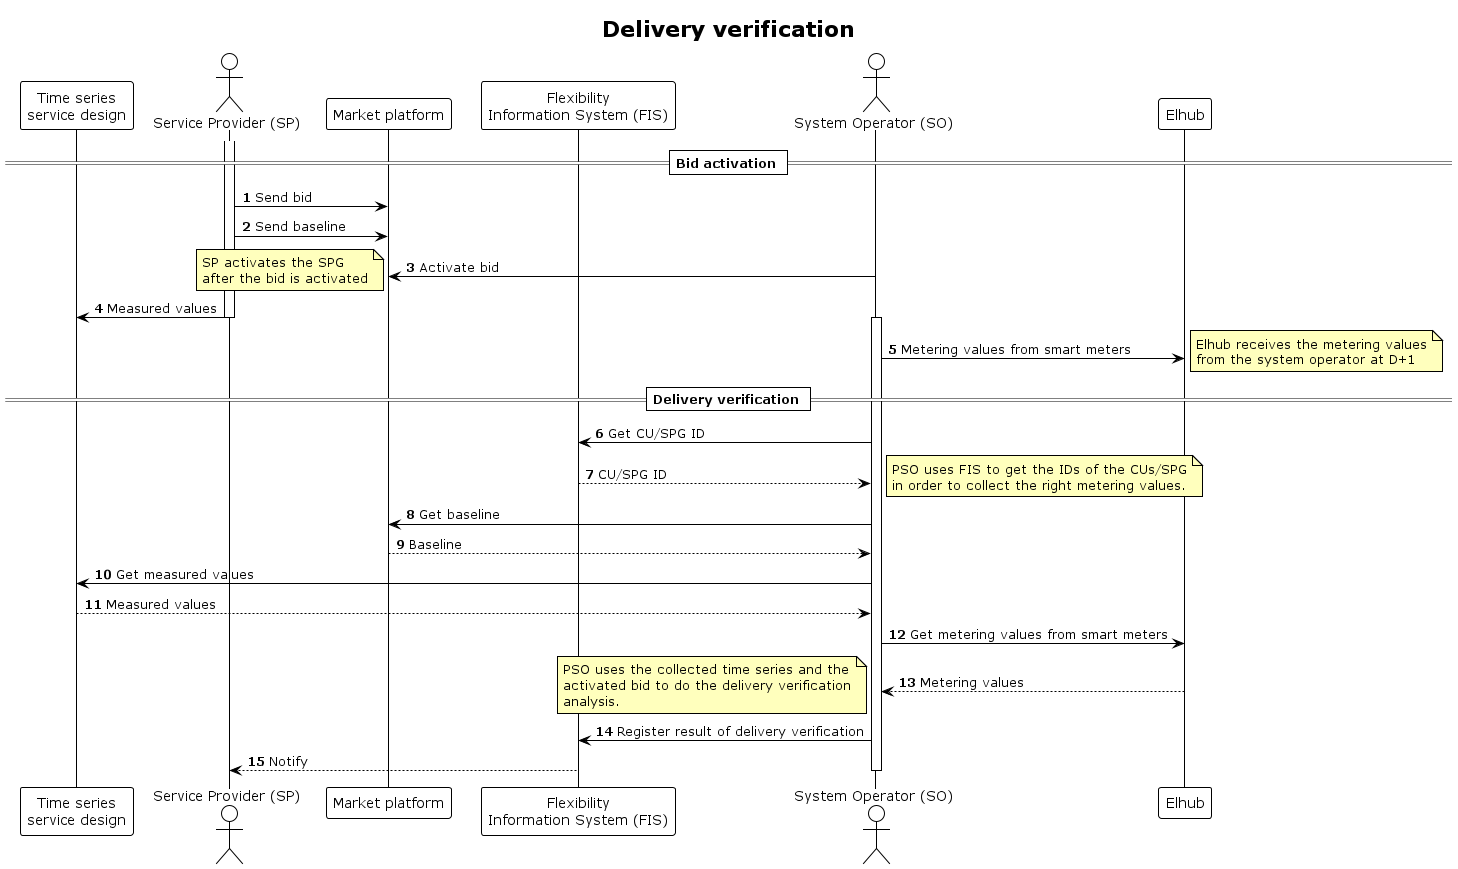
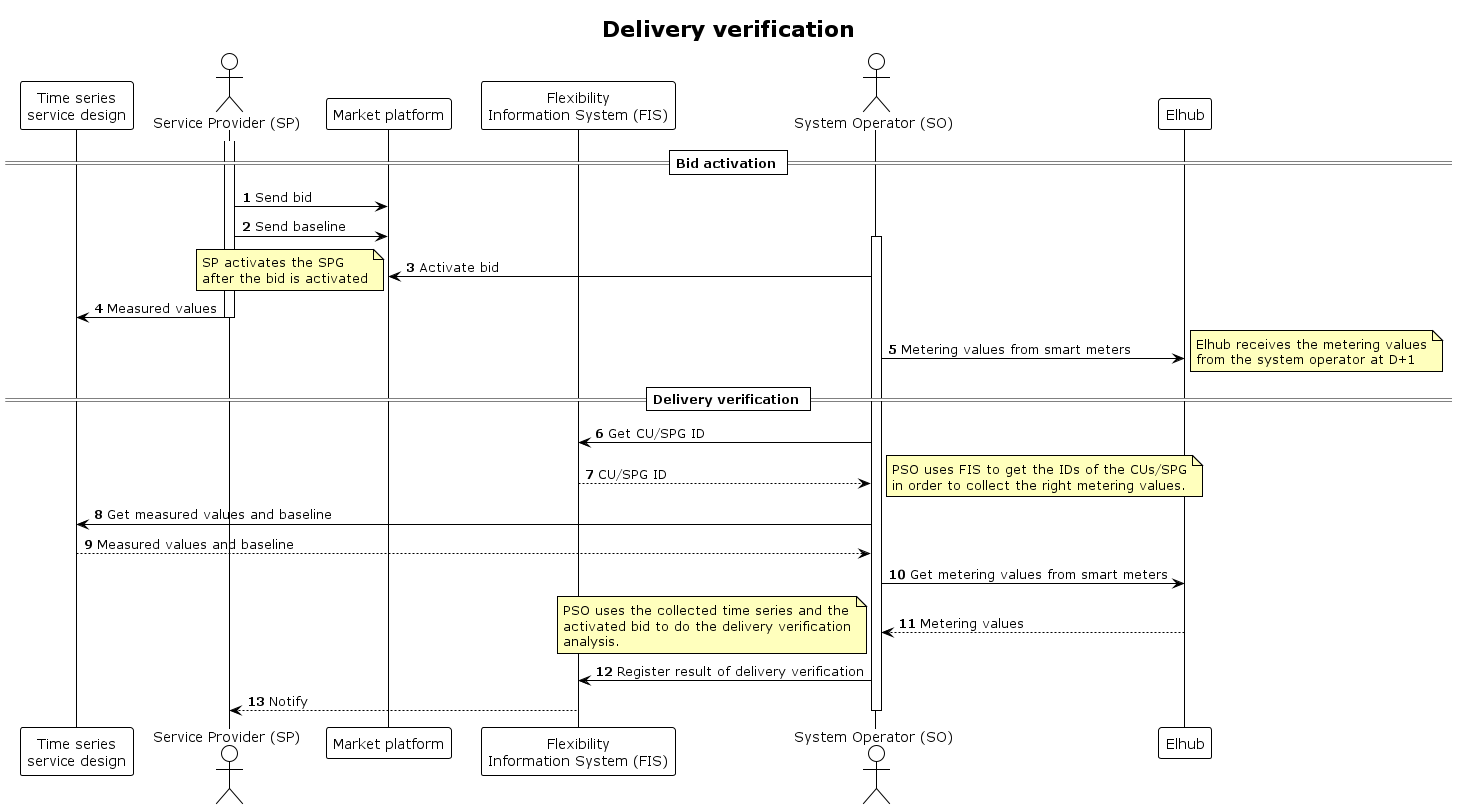
Small changes to diagram

diff --git a/docs/processes/delivery-verification.md b/docs/processes/delivery-verification.md
@@ -8,7 +8,7 @@ information system (FIS).
 
 >This is a general description of how a delivered service can be verified. The detailed
 >requirements for the time series required for the analysis (e.g. the requirements
->for time resolution) should be defined by the product-specific requirements.
+>for time resolution) should be defined in the product-specific requirements.
 
 The delivery verification is done by a procuring system operator (PSO) that has
 activated a bid from the service provider (SP). The verification is done at an
@@ -19,13 +19,15 @@ analysis thus requires time series at an SPG level.
 
 The time series needed for the verificaion are:
 
-* Metering values
+* Measured values
+* Metering values (Begge, eller en av disse???)
 * Baseline
 * Bid volume
 
-The metering values and baseline are stored in a time series database (TSDB).
-There is an [integration](../technical/time-series-design.md#integration) between
-the TSDB and FIS, where FIS references the time series by ID.
+The measured values and baseline are available through the time series service
+design. There is an [integration](../technical/time-series-design.md#integration)
+between the time series service and FIS, where FIS references the time series by
+ID and holds authorization information.
 
 SP continuously sends _metering values_ of its CUs to the database. The CUs are
 then aggregated BY SOMEONE (må oppdateres) to the SPG level. The IDs of the
@@ -33,11 +35,11 @@ time series can be matched with the IDs of the CUs and SPGs registered in the FI
 
 The _baseline_ is sent by SP after a bid is offered in the marketplace, before
 the bid is accepted. The baseline is sent at an SPG level. The baseline is
-accessible in the TSDB after the bid has been activated.
+accessible through the time series serivce after the bid has been activated.
 
 The time series for the _bid volume_ is collected by SO when they accept the bid.
-Therefore the bid does not need to be sent to the TSDB. The bid volume is given
-at an SPG level.
+Therefore the bid does not need to be available through the time series service.
+The bid volume is given at an SPG level.
 
 ## Time resolution
 
@@ -48,9 +50,6 @@ will usually be required.
 
 ## Prerequisites
 
-* PSO has accepted a bid from SP and activated their SPG
-* SP sent a baseline for the bid ahead of the activation to the PSO and the TSDB
-* SP continuously sends metering values to the TSDB
 * PSO has the time series for the bid
 
 ## Sequence
